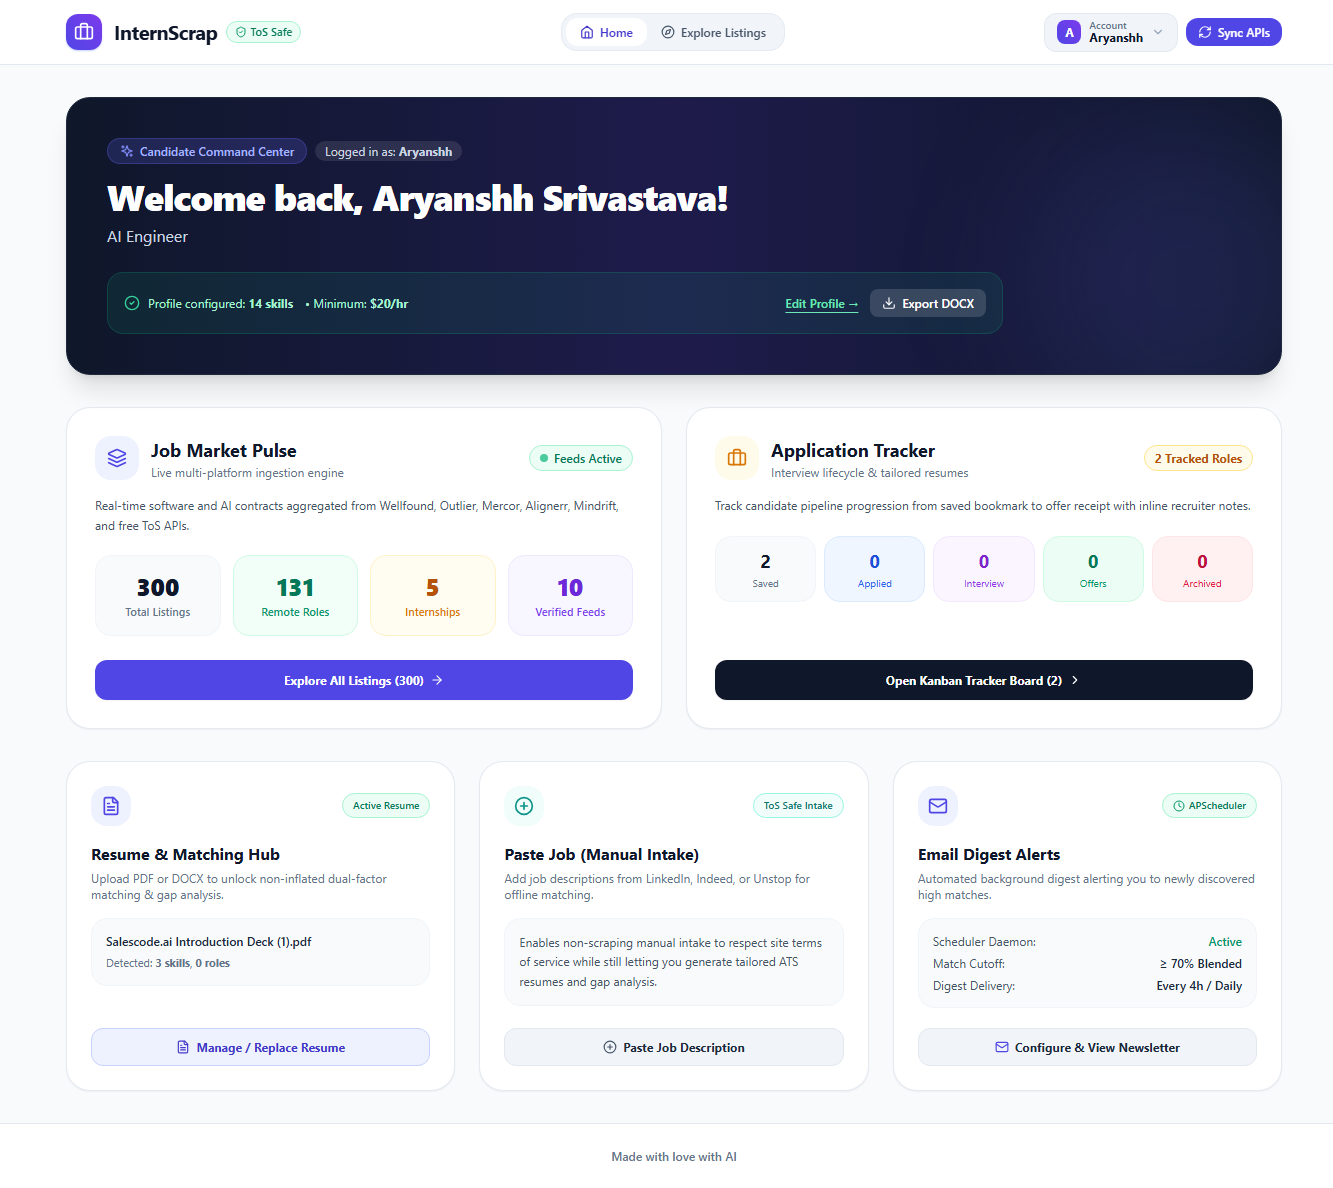
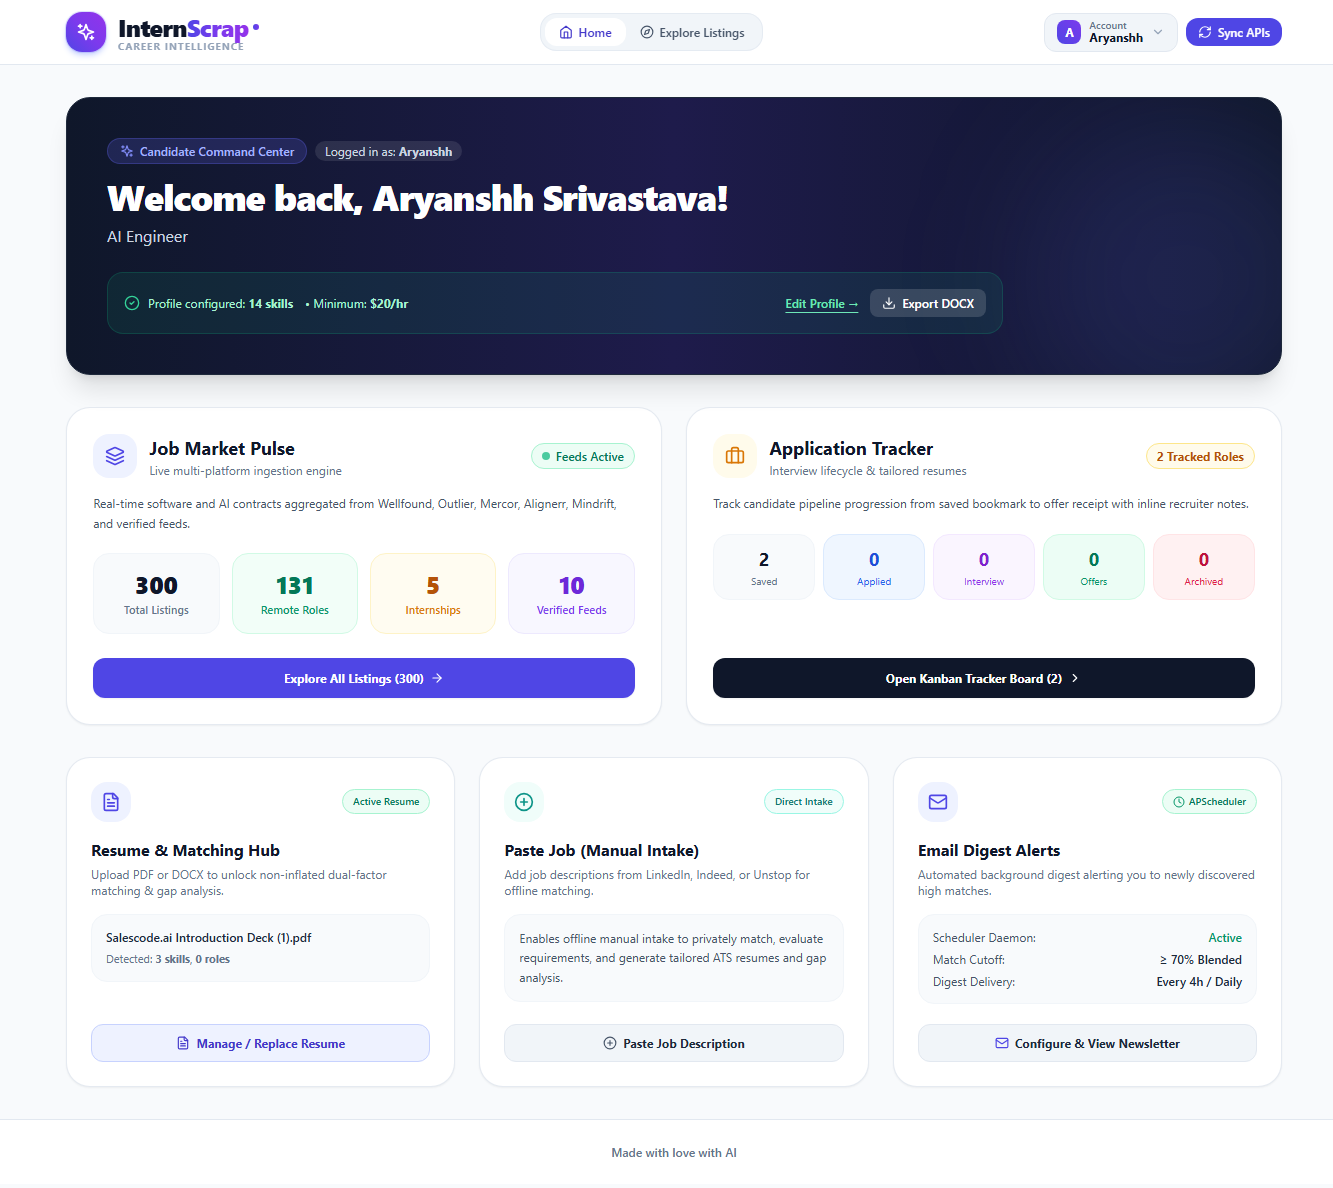
feat: beautify InternScrap brand typography and remove ToS Safe badges

diff --git a/frontend/src/components/Header.tsx b/frontend/src/components/Header.tsx
@@ -1,8 +1,7 @@
 import React, { useState, useRef, useEffect } from 'react';
 import {
-  Briefcase,
+  Sparkles,
   RefreshCw,
-  ShieldCheck,
   User,
   ChevronDown,
   Home,
@@ -54,20 +53,22 @@ export const Header: React.FC<HeaderProps> = ({
         <div className="flex items-center justify-between h-16 gap-3">
           {/* 1. Logo & Brand */}
           <div
-            className="flex items-center space-x-3 shrink-0 cursor-pointer"
+            className="flex items-center space-x-3 shrink-0 cursor-pointer group select-none"
             onClick={() => onViewChange('home')}
             title="Go to Home Command Center"
           >
-            <div className="w-9 h-9 rounded-xl bg-gradient-to-tr from-indigo-600 to-violet-600 flex items-center justify-center text-white shadow-sm shadow-indigo-200">
-              <Briefcase className="w-5 h-5" />
+            <div className="w-10 h-10 rounded-2xl bg-gradient-to-tr from-indigo-600 via-violet-600 to-purple-600 flex items-center justify-center text-white shadow-md shadow-indigo-200 group-hover:scale-105 group-hover:shadow-indigo-300 transition-all duration-200 ring-1 ring-indigo-500/20">
+              <Sparkles className="w-5 h-5 text-white" />
             </div>
-            <div className="flex items-center space-x-2">
-              <span className="font-bold text-lg sm:text-xl tracking-tight text-slate-900 whitespace-nowrap">
-                InternScrap
-              </span>
-              <span className="inline-flex items-center gap-1 text-[11px] px-2 py-0.5 rounded-full bg-emerald-50 text-emerald-700 font-semibold border border-emerald-200 whitespace-nowrap">
-                <ShieldCheck className="w-3 h-3 text-emerald-600" />
-                <span>ToS Safe</span>
+            <div className="flex flex-col">
+              <div className="flex items-center gap-1">
+                <span className="font-black text-xl sm:text-2xl tracking-tight text-slate-900 font-sans">
+                  Intern<span className="bg-gradient-to-r from-indigo-600 via-violet-600 to-purple-600 bg-clip-text text-transparent">Scrap</span>
+                </span>
+                <span className="w-1.5 h-1.5 rounded-full bg-gradient-to-r from-indigo-600 to-violet-600" />
+              </div>
+              <span className="text-[10px] font-bold uppercase tracking-widest text-slate-400 -mt-1 hidden sm:block">
+                Career Intelligence
               </span>
             </div>
           </div>

diff --git a/frontend/src/components/LoginPage.tsx b/frontend/src/components/LoginPage.tsx
@@ -1,5 +1,5 @@
 import React, { useState } from 'react';
-import { Briefcase, ShieldCheck, Lock, User, Eye, EyeOff, ArrowRight, Loader2 } from 'lucide-react';
+import { Sparkles, Lock, User, Eye, EyeOff, ArrowRight, Loader2 } from 'lucide-react';
 import { login, register } from '../api/client';
 import { AuthUser } from '../types/job';
 
@@ -60,18 +60,17 @@ export const LoginPage: React.FC<LoginPageProps> = ({ onLoginSuccess }) => {
       <div className="sm:mx-auto sm:w-full sm:max-w-md relative z-10 px-4">
         {/* Brand Header */}
         <div className="flex flex-col items-center text-center">
-          <div className="w-14 h-14 rounded-2xl bg-gradient-to-tr from-indigo-500 via-indigo-600 to-violet-600 flex items-center justify-center text-white shadow-xl shadow-indigo-500/20 mb-3">
-            <Briefcase className="w-7 h-7" />
+          <div className="w-16 h-16 rounded-3xl bg-gradient-to-tr from-indigo-500 via-violet-600 to-purple-600 flex items-center justify-center text-white shadow-2xl shadow-indigo-500/30 mb-4 ring-1 ring-white/20 transform hover:scale-105 transition-transform duration-300">
+            <Sparkles className="w-8 h-8 text-white" />
           </div>
-          <div className="flex items-center gap-2 mb-1">
-            <h1 className="text-2xl sm:text-3xl font-black text-white tracking-tight">InternScrap</h1>
-            <span className="inline-flex items-center gap-1 text-[11px] px-2.5 py-0.5 rounded-full bg-emerald-500/10 text-emerald-400 font-semibold border border-emerald-500/20">
-              <ShieldCheck className="w-3 h-3 text-emerald-400" />
-              <span>ToS Safe</span>
-            </span>
+          <div className="flex items-center justify-center gap-1.5 mb-2">
+            <h1 className="text-3xl sm:text-4xl font-black tracking-tight text-white font-sans">
+              Intern<span className="bg-gradient-to-r from-indigo-400 via-violet-300 to-purple-400 bg-clip-text text-transparent">Scrap</span>
+            </h1>
+            <span className="w-2 h-2 rounded-full bg-indigo-400 shadow-sm shadow-indigo-400/50" />
           </div>
-          <p className="text-slate-400 text-xs sm:text-sm max-w-xs">
-            Remote Talent Aggregator, AI Profile Hub & ATS-Tailored Career Suite
+          <p className="text-slate-400 text-xs sm:text-sm max-w-xs font-medium">
+            AI-Powered Remote Talent Aggregator & Career Command Center
           </p>
         </div>
 

diff --git a/frontend/src/components/HomePage.tsx b/frontend/src/components/HomePage.tsx
@@ -170,7 +170,7 @@ export const HomePage: React.FC<HomePageProps> = ({
             </div>
 
             <p className="text-xs text-slate-600 mb-5 leading-relaxed">
-              Real-time software and AI contracts aggregated from Wellfound, Outlier, Mercor, Alignerr, Mindrift, and free ToS APIs.
+              Real-time software and AI contracts aggregated from Wellfound, Outlier, Mercor, Alignerr, Mindrift, and verified feeds.
             </p>
 
             <div className="grid grid-cols-2 sm:grid-cols-4 gap-3 text-center">
@@ -318,7 +318,7 @@ export const HomePage: React.FC<HomePageProps> = ({
                 <PlusCircle className="w-5 h-5" />
               </div>
               <span className="text-[10px] px-2.5 py-1 rounded-full bg-teal-50 text-teal-700 font-semibold border border-teal-200">
-                ToS Safe Intake
+                Direct Intake
               </span>
             </div>
 
@@ -328,7 +328,7 @@ export const HomePage: React.FC<HomePageProps> = ({
             </p>
 
             <div className="mt-4 p-3.5 rounded-2xl bg-slate-50 border border-slate-100 text-xs text-slate-600 leading-relaxed">
-              Enables non-scraping manual intake to respect site terms of service while still letting you generate tailored ATS resumes and gap analysis.
+              Enables offline manual intake to privately match, evaluate requirements, and generate tailored ATS resumes and gap analysis.
             </div>
           </div>
 

diff --git a/frontend/src/components/ManualJobModal.tsx b/frontend/src/components/ManualJobModal.tsx
@@ -1,5 +1,5 @@
 import React, { useState } from 'react';
-import { X, ShieldAlert, Check, PlusCircle } from 'lucide-react';
+import { X, Sparkles, Check, PlusCircle } from 'lucide-react';
 import { createManualJob } from '../api/client';
 import { Job } from '../types/job';
 
@@ -90,11 +90,11 @@ export const ManualJobModal: React.FC<ManualJobModalProps> = ({
           </button>
         </div>
 
-        {/* ToS Disclaimer Banner */}
-        <div className="mt-4 p-3 bg-amber-50 border border-amber-200 rounded-xl flex items-start gap-2.5 text-xs text-amber-800">
-          <ShieldAlert className="w-4 h-4 text-amber-600 flex-shrink-0 mt-0.5" />
+        {/* Manual Intake Info Banner */}
+        <div className="mt-4 p-3 bg-indigo-50/70 border border-indigo-200 rounded-xl flex items-start gap-2.5 text-xs text-indigo-900">
+          <Sparkles className="w-4 h-4 text-indigo-600 flex-shrink-0 mt-0.5" />
           <div>
-            <strong>Terms-of-Service Safe:</strong> Automated scraping of LinkedIn, Indeed, Naukri, Internshala, and Unstop violates their terms. Use this manual intake to securely match and tailor your resume against those roles.
+            <strong>Private Manual Intake:</strong> Add external listings from LinkedIn, Indeed, or Unstop to privately match, evaluate skills, and tailor your resume against those roles.
           </div>
         </div>
 
